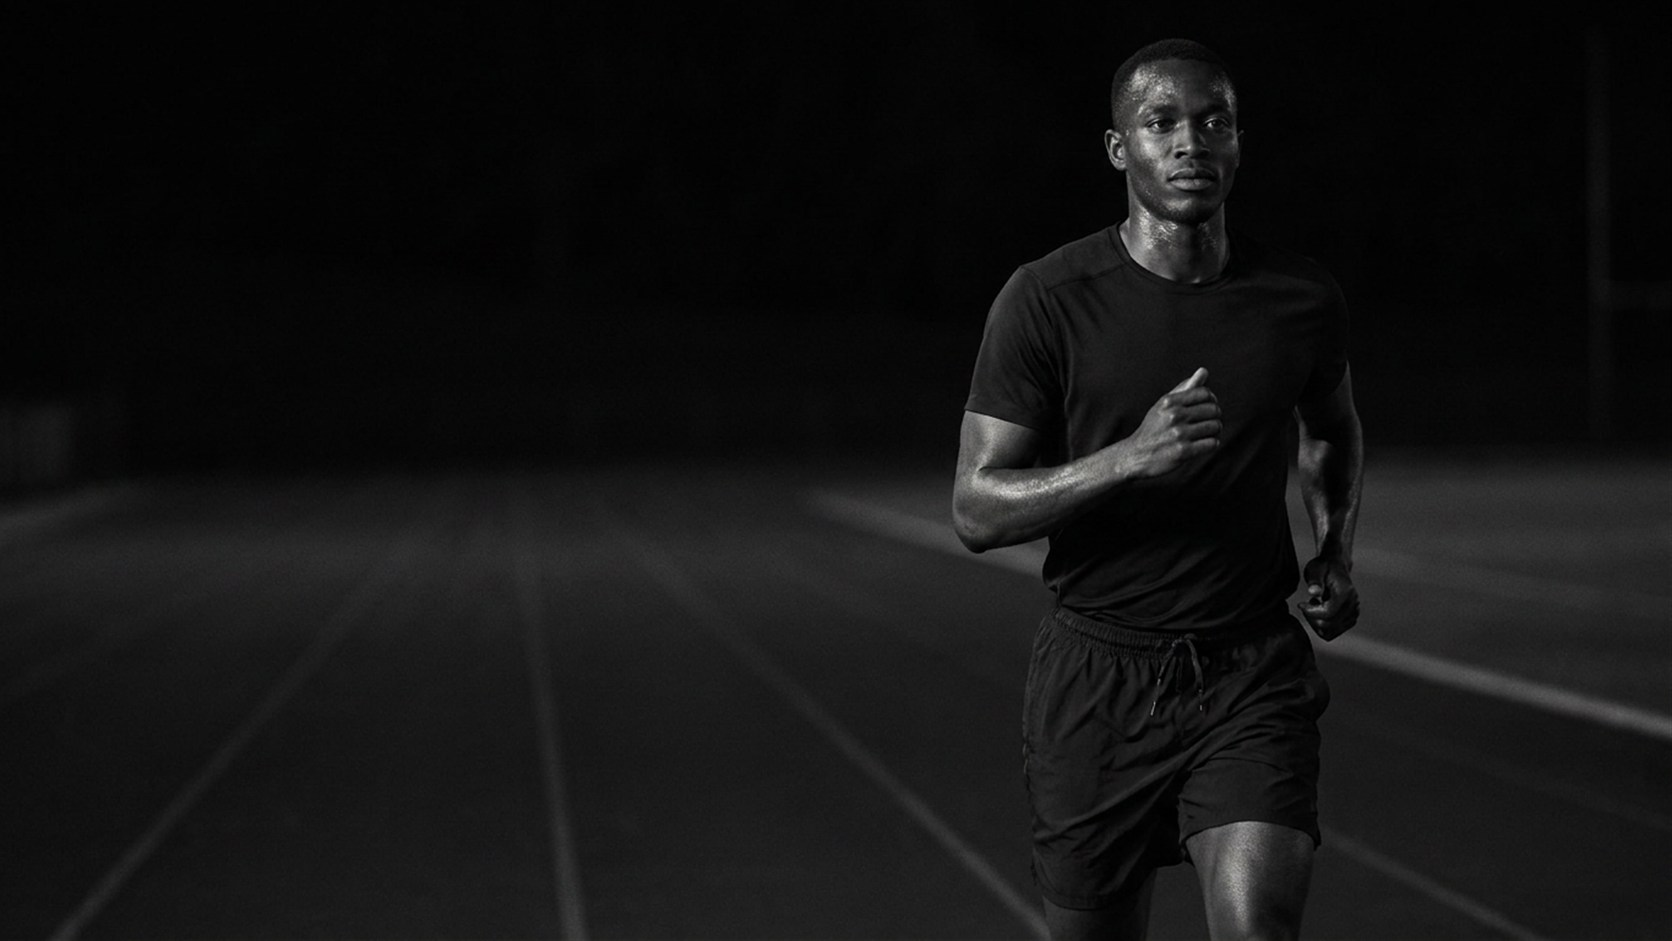
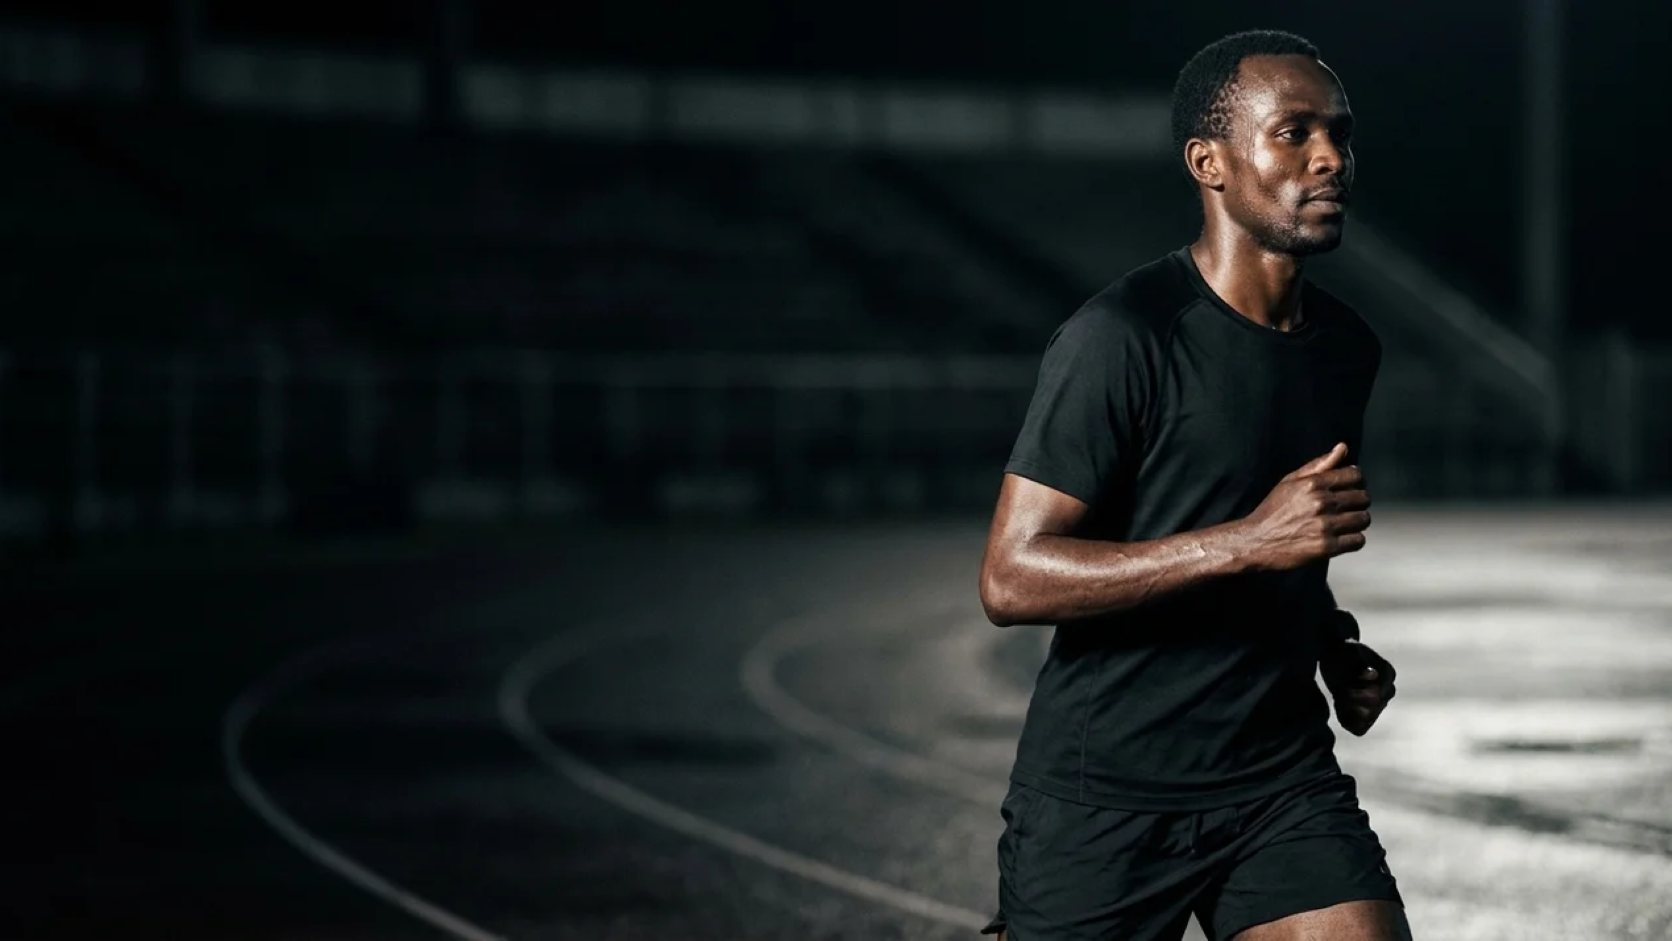
New Yoga, Running, Golf and New Arrivals hero photography
All four rebuilt to the 1672x941 hero spec from the 8 Aug renders.

- Yoga: floor-meditation shot. The mirrored layout stands (she is still
  left of frame) but the vertical anchor moves from 40% to top: she now
  spans ~5-96% of the frame instead of sitting low and small, so 40%
  would take her head off.
- Running: new stadium shot. No framing change - the runner lands at
  ~58-86% across with his head ~4% down, the numbers the shared
  `72% top` is already cut for.
- Golf: dusk-fairway shot, same story, no page-scoped framing needed.
- New Arrivals: converted from a text-only hero to a photo hero. This
  one is centred rather than left-aligned, because the photograph is a
  symmetric pair with the only empty space between the two models. The
  copy column is capped at 31vw so it tracks that gap as the window
  narrows, and below 1024px the layout drops the pair and frames the
  woman alone.

Verified at 375, 1024, 1440 and 1920: no horizontal overflow, no
clipped heads, copy clear of every subject.

diff --git a/collection-new.html b/collection-new.html
@@ -34,6 +34,51 @@
     *{box-sizing:border-box}
     :focus-visible{outline:2px solid #000;outline-offset:3px}
     @media(prefers-reduced-motion:reduce){.fu{opacity:1!important;transform:none!important;transition:none!important}}
+    /* Hero framing (8 Aug 2026) - THIS HERO IS CENTRED, not left-aligned like
+       the shared .chero pattern, and not mirrored like collection-yoga.html.
+       The photograph is a symmetrical pair: the man occupies ~11-36% of the
+       frame and the woman ~65-90%, with an empty dark column between them at
+       ~38-64%. Desktop `cover` scales by width, so there is no horizontal
+       slack and BOTH models are always on screen - the copy has nowhere to go
+       but the gap in the middle. Pushing it left or right would put the
+       headline on a model's face. Do not "normalise" this back to the shared
+       left-aligned pattern.
+         - .chero-copy is centred with margin:0 auto and text-align:center.
+         - The scrim is two stacked gradients, not the shared one: a horizontal
+           pass that darkens the middle column under the copy and thins out
+           over the models at either edge, plus a light vertical wash to seat
+           the type and keep the 64px nav legible.
+         - .chero-copy is capped at min(30rem,31vw) rather than the shared
+           34rem. The gap is a fixed 32% of the frame, so it shrinks in px as
+           the window narrows while a rem-based column does not; 31vw tracks
+           it. Measured at 1440: headline 35.6-63.3%, subtitle 31.6-67.4% -
+           both inside the 36-68% gap. A flat 34rem put the subtitle on the
+           man's shoulder.
+         - The narrow scrim must be RE-DECLARED inside the max-width:1023px
+           block below. This page's <style> loads after css/mobile-fix.css, so
+           the unconditional .chero-scrim rule above would otherwise beat the
+           shared top-to-bottom gradient. Same trap as the yoga page.
+       The pair only works while the gap is wide enough in px to hold a
+       headline, which is why the split here is 1024px and not the usual 767.
+       Below that the layout abandons the pair, frames the woman alone at 80%
+       and falls back to the shared full-width vertical scrim - at 31vw of a
+       375px screen the copy column would be 116px wide.
+       Vertical: `top` at every width. Their heads sit ~5% down the frame and
+       they are already cropped at the knee by the bottom edge, so there is
+       nothing to gain by shifting down and a head to lose. */
+    .chero-copy{margin:0 auto;text-align:center}
+    .chero-scrim{background:
+      linear-gradient(to right,rgba(10,10,10,.30) 0%,rgba(10,10,10,.78) 34%,rgba(10,10,10,.82) 50%,rgba(10,10,10,.78) 66%,rgba(10,10,10,.30) 100%),
+      linear-gradient(to bottom,rgba(10,10,10,.55) 0%,rgba(10,10,10,.32) 45%,rgba(10,10,10,.70) 100%)}
+    @media(min-width:1024px){
+      .chero-img{background-position:50% top}
+      .chero-copy{max-width:min(30rem,31vw)}
+    }
+    @media(max-width:1023px){
+      .chero-img{background-position:80% top}
+      .chero-scrim{background:linear-gradient(to bottom,rgba(10,10,10,.82) 0%,rgba(10,10,10,.72) 55%,rgba(10,10,10,.88) 100%)}
+      .chero-copy{max-width:none}
+    }
   </style>
   <script src="js/mobile-fix.js?v=20260805d" defer></script>
 </head>
@@ -96,14 +141,18 @@
 <div id="moverlay" class="fixed inset-0 bg-black/20 z-40 hidden"></div>
 
 <!-- HERO -->
-<section id="main" class="pt-28 pb-14 px-6 text-center" style="position:relative;overflow:hidden;background:#0a0a0a;">
-  <div class="max-w-4xl mx-auto" style="position:relative;">
-    <p class="fu text-xs font-semibold uppercase tracking-widest text-gray-500 mb-4">New Arrivals</p>
-    <h1 class="fu d1 t-hero text-white">New Arrivals — SS26</h1>
-    <p class="fu d2 text-lg mt-5" style="color:#9ca3af">The SS26 collection. New colourways, updated constructions, same commitment to quality.</p>
-    <div class="fu d3 flex items-center justify-center gap-4 mt-8">
-      <a href="collections.html" class="btn-p">Shop All</a>
-      <a href="#products" class="text-sm font-medium text-gray-400 hover:text-white transition-colors">View collection &darr;</a>
+<section id="main" class="chero pt-28 pb-16 px-6">
+  <div class="chero-img" style="background-image:url('images/hero-new-arrivals.jpg')"></div>
+  <div class="chero-scrim"></div>
+  <div class="chero-body">
+    <div class="chero-copy">
+      <p class="fu text-xs font-semibold uppercase tracking-widest text-gray-500 mb-4">New Arrivals</p>
+      <h1 class="fu d1 t-hero text-white">New Arrivals — SS26</h1>
+      <p class="fu d2 text-lg mt-5" style="color:#9ca3af">The SS26 collection. New colourways, updated constructions, same commitment to quality.</p>
+      <div class="fu d3 flex items-center justify-center gap-4 mt-8">
+        <a href="collections.html" class="btn-p">Shop All</a>
+        <a href="#products" class="text-sm font-medium text-gray-400 hover:text-white transition-colors">View collection &darr;</a>
+      </div>
     </div>
   </div>
 </section>

diff --git a/collection-yoga.html b/collection-yoga.html
@@ -49,27 +49,31 @@
            block below. This page's <style> loads after mobile-fix.css, so the
            unconditional .chero-scrim rule above would otherwise beat the
            shared top-to-bottom mobile gradient and leave copy unreadable.
-       Vertical (desktop): 40%, and it must stay a PERCENTAGE. She sits low
-       and small in this frame - head ~30% down, seated base ~91% - so the
-       58vh band cannot hold all of her and has to choose what to cut. 40%
-       drops the empty ceiling, keeps her head clear of the 64px nav, and
-       still shows the crossed legs that make the pose read. A fixed px/cm
-       offset frames her more consistently but is unsafe here: on a very tall
-       window the slack shrinks below the offset and bare background shows
-       under the photo. Percentages interpolate within the slack and can
-       never gap. Checked at 600/800/1000px viewport heights.
-       Horizontal: she is centred ~41% across the photo. Desktop `cover`
-       scales by width, so x does nothing at normal window shapes - 40% only
-       matters on very tall narrow windows. Mobile `cover` scales by HEIGHT,
-       so x is the only control that does anything (and y does nothing, there
-       being no vertical slack): 50% holds her whole body - she spans ~29-54%
-       of the photo - and leaves the right side clear for the copy. */
+       Vertical: `top`, and it is load-bearing. The 8 Aug floor-meditation
+       shot is framed far tighter than the one it replaced - she now spans
+       ~5% to ~96% of the frame instead of sitting low and small - so the old
+       40% anchor would take her head off. Anchored hard to 0% nothing is
+       ever lost from the top at any window shape. The trade is real and
+       unavoidable: the 58vh band can only show ~50-62% of a 16:9 frame on a
+       wide window, so on desktop this reads as head, shoulders and prayer
+       hands, with the crossed legs below the cut. That is the photograph,
+       not the CSS - `cover` has no setting that shows more of it.
+       Do NOT nudge this to a small percentage to recover the legs: at 1920
+       wide the slack is ~530px, so even 10% shifts the crop 58px down and
+       clips her head. And never use a px/cm offset - on a tall window the
+       slack shrinks below the offset and bare background shows under the
+       photo. Percentages interpolate within the slack and can never gap.
+       Horizontal: she is centred ~46% across the photo. Desktop `cover`
+       scales by width, so x does nothing at normal window shapes. Mobile
+       `cover` scales by HEIGHT, so x is the only control that does anything
+       (and y does nothing, there being no vertical slack): 46% holds her
+       whole body and leaves the right side clear for the copy. */
     .chero-scrim{background:linear-gradient(to left,rgba(10,10,10,.92) 0%,rgba(10,10,10,.72) 30%,rgba(10,10,10,.22) 58%,rgba(10,10,10,0) 78%)}
     .chero-copy{margin-left:auto;text-align:right}
     .chero-copy .d3{justify-content:flex-end}
-    @media(min-width:768px){.chero-img{background-position:40% 40%}}
+    @media(min-width:768px){.chero-img{background-position:46% top}}
     @media(max-width:767px){
-      .chero-img{background-position:50% top}
+      .chero-img{background-position:46% top}
       .chero-scrim{background:linear-gradient(to bottom,rgba(10,10,10,.82) 0%,rgba(10,10,10,.72) 55%,rgba(10,10,10,.88) 100%)}
     }
   </style>

diff --git a/collection-running.html b/collection-running.html
@@ -36,12 +36,15 @@
     *{box-sizing:border-box}
     :focus-visible{outline:2px solid #000;outline-offset:3px}
     @media(prefers-reduced-motion:reduce){.fu{opacity:1!important;transform:none!important;transition:none!important}}
-    /* Hero framing (7 Aug 2026). Kept in the stylesheet rather than inline on
-       the element, because an inline background-position would beat this rule.
+    /* Hero framing (7 Aug 2026; image replaced 8 Aug, framing unchanged - the
+       new stadium shot puts the runner at ~58-86% across with his head ~4%
+       down, so every value below still holds). Kept in the stylesheet rather
+       than inline on the element, because an inline background-position would
+       beat this rule.
        The track photo already frames the runner at the gym model's apparent
        size, so the 160% desktop zoom the previous road shot needed is gone -
        desktop just inherits the shared `72% top` from mobile-fix.css. Anchor
-       stays hard at the top: the top of his head sits ~3% down the frame, so
+       stays hard at the top: the top of his head sits ~4% down the frame, so
        any upward shift takes it off.
        Below 1024px: `cover` scales by HEIGHT to fill the taller box, so there
        is no vertical slack - only the x value does anything. 88% pushes him

diff --git a/collection-golf.html b/collection-golf.html
@@ -33,6 +33,16 @@
     *{box-sizing:border-box}
     :focus-visible{outline:2px solid #000;outline-offset:3px}
     @media(prefers-reduced-motion:reduce){.fu{opacity:1!important;transform:none!important;transition:none!important}}
+    /* No page-scoped hero framing here, and none is needed (checked 8 Aug 2026
+       against the new dusk-fairway shot). The golfer sits at ~57-81% across
+       with his head ~4% down the frame, which is exactly what the shared
+       `72% top` in css/mobile-fix.css is cut for - the same numbers the
+       running hero runs on. If a future golf image moves the subject or drops
+       his head lower, add an override here rather than inline on .chero-img:
+       an inline background-position beats every media query.
+       Note for about.html: its Golf tile crops 2/1 and keeps object-position
+       :top for this reason. Any replacement image must keep the subject's
+       head in the top ~6% of the frame or that tile decapitates him. */
   </style>
   <script src="js/mobile-fix.js?v=20260805d" defer></script>
 </head>
